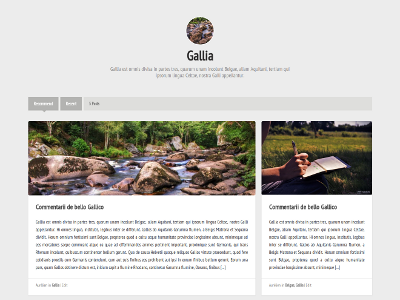
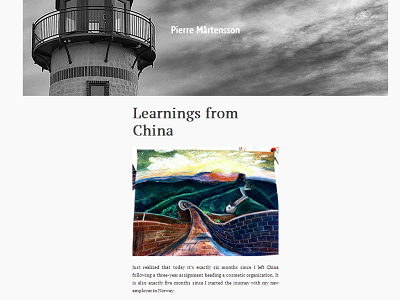
Clean-up
Cleaned up the design after migration. Removed duplicated CSS

diff --git a/style.css b/style.css
@@ -4,7 +4,7 @@ Theme URI:    https://github.com/hvassing/hh-wpmedium-child
 Description:  WPMedium Child Theme
 Author:       Håvard Hvassing
 Author URI:   http://hvassing.com
-Template:     wpmedium
+Template:     WPmedium
 Version: 1.4
 Tags: light, gray, white, one-column, two-columns, three-columns, custom-header, custom-menu, featured-images, sticky-post, theme-options, translation-ready
 Text Domain: wpmedium-child
@@ -12,33 +12,57 @@ License: GNU GPL V3
 License URI: http://www.gnu.org/licenses/gpl-3.0.en.html
 */
 
-@import url("../wpmedium/style.css");
+@import url("../WPmedium/style.css");
 
-/* =Theme customization starts here
--------------------------------------------------------------- */
+/** Basics **/
+
+body {
+    background-color: #f9f9f9;
+    color: #1d1d1d;
+    font-family: "PT Serif", Georgia, sans-serif;
+    font-size: 100%;
+    margin: 0;
+    max-width: 100%;
+    padding: 0;
+    position: relative;
+    width: 100% !important;
+}
+
+.pullquote {
+    margin: 48px -100px; 
+    -webkit-transition: margin .1s; 
+       -moz-transition: margin .1s; 
+        -ms-transition: margin .1s; 
+         -o-transition: margin .1s; 
+            transition: margin .1s;
+}
+
+.wrap {
+    padding-left: 1.563em;
+    padding-right: 1.563em;
+}
+
 .site-header {
-    background-position: center center;
+    background-position: center top;
     background-size: 100%;
     height: 16.250em;
-    padding: 5.0em 0; /*1.250em;*/
+    padding: 5.0em 1.250em;
     text-align: center;
-    max-width: 1600px;
-    margin: 0 auto;
 }
-.site-header-overlay {
-    background: #000;
-    height: 26.250em;
-    left: 0;
-    opacity: 0.4;
-    position: absolute;
-    right: 0;
-    top: 0;
-    width: 100%;
-    z-index: 0;
-    max-width: 1600px;
-    margin: 0 auto;
-    display: none;
+
+.site-header hgroup {
+    z-index: 10;
+    position: relative;
 }
+.site-header .site-logo {
+    border: 2px solid #fff;
+    border-radius: 5.625em;
+    height: 5.625em;
+    margin: 0 auto;
+    overflow: hidden;
+    width: 5.625em;
+}
+
 .site-header .site-avatar {
     border-radius: 5.625em;
     height: 5.625em;
@@ -64,15 +88,82 @@ License URI: http://www.gnu.org/licenses/gpl-3.0.en.html
     font-weight: 400;
     font-size: 1.125em;
 }
-.site-header h1 a, .site-header h2 a {
-	color: #fff;
+
+.site-header p {
+    margin: 0 auto;
+    max-width: 80%;
+    text-align: center;
+    width: 48em;
 }
 
-.pullquote {
-    margin: 48px -100px; 
-    -webkit-transition: margin .1s; 
-       -moz-transition: margin .1s; 
-        -ms-transition: margin .1s; 
-         -o-transition: margin .1s; 
-            transition: margin .1s;
+.site-header p a {
+    opacity: 0.7;
+}
+
+.site-header p a:hover {
+    opacity: 0.9;
+}
+
+.site-header p a, .site-header p a:hover {
+    -webkit-transition: opacity 0.3s ease;
+    -moz-transition: opacity 0.3s ease;
+    -o-transition: opacity 0.3s ease;
+    transition: opacity 0.3s ease;
+}
+
+.site-header p i {
+    display: inline-block;
+    height: 24px;
+    width: 24px;
+}
+
+.site-header .header-sidebar {
+    color: #fff;
+    z-index: 10;
+    position: relative;
+}
+
+
+#main {
+    margin: 1.500em auto 3em auto;
+    width: 72em;
+}
+
+#content {
+    margin: 0 auto;
+    padding: 1em 0 2.500em 0;
+    position: relative;
+}
+
+.site-content {
+    float: none;
+    margin: 0;
+    padding-bottom: 1em;
+    width: 100%;
+}
+
+/** Responsive **/
+
+/* Full */
+@media (min-width: 78em) and (max-width: 90em) {
+}
+
+/* Wide */
+@media (min-width: 60em) and (max-width: 78em) {
+}
+
+/* Large */
+@media (min-width: 48em) and (max-width: 60em) {
+}
+
+/* Medium */
+@media (min-width: 24em) and (max-width: 48em) {
+}
+
+/* Small */
+@media (max-width: 24em) and (min-width: 20em) {
+}
+
+/* X-small */
+@media (max-width: 20em) {    
 }

diff --git a/index.php b/index.php
@@ -10,7 +10,9 @@ get_header(); ?>
 
 			<header id="masthead" class="site-header" role="banner" style="background-image:url(<?php wpmedium_the_header_image(); ?>);">
 
-				<div class="site-header-overlay"></div>
+				<!--
+					<div class="site-header-overlay"></div>
+				-->
 
 				<hgroup>
 					<h1 class="site-title"><a href="<?php echo home_url(); ?>"><?php bloginfo( 'name' ); ?></a></h1>
@@ -32,13 +34,15 @@ get_header(); ?>
 <?php if ( $first_post == true ) :
 	get_template_part( 'content', 'first' );
 	$first_post = false;
+
 else :
+
 	get_template_part( 'content' ); 
 endif;
 ?>
 
 <?php endwhile; ?>
-						
+
 
 					</div><!-- #content -->
 
